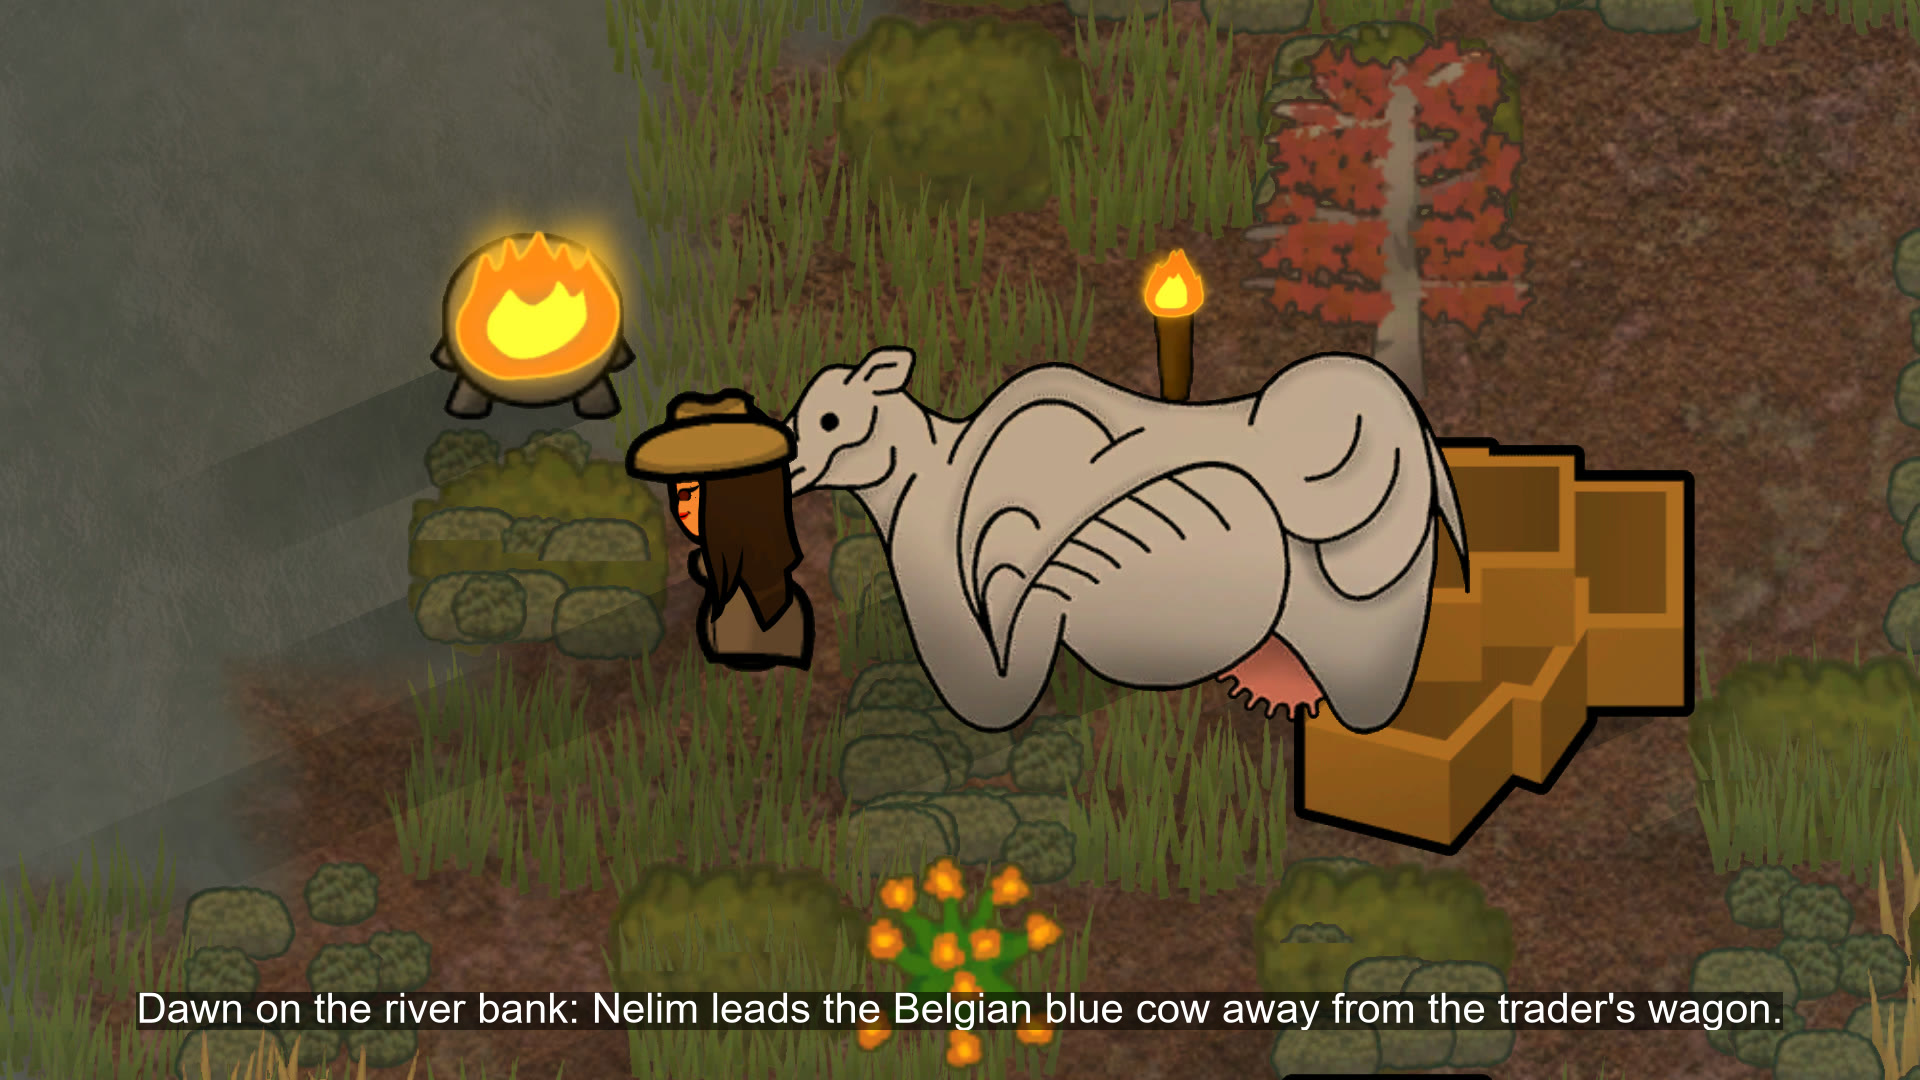
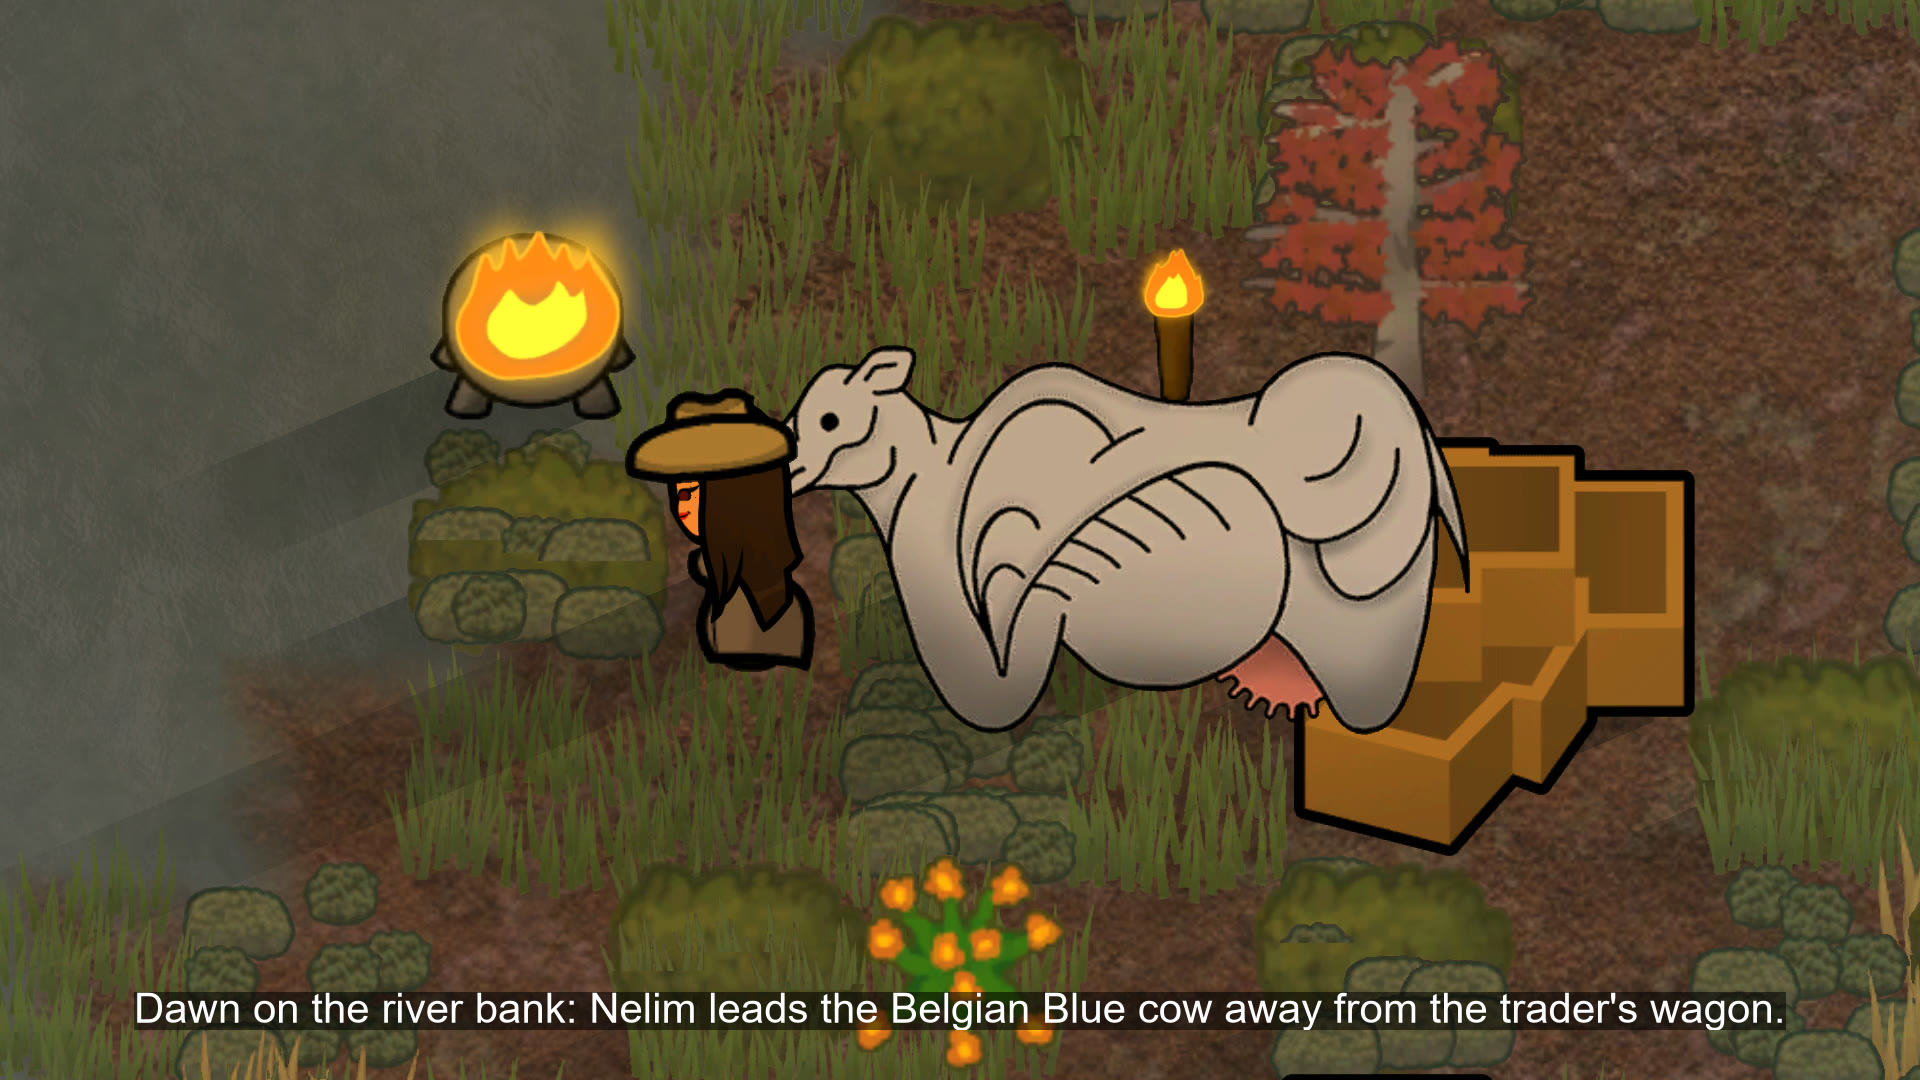
Review round 3: Belgian Blue capitalised in PUBLICATION.md, README.md, About.xml, subtitles 1 and 3 re-burned, review regenerated

Changed region(s): [[0.0625, 0.9167, 0.9375, 0.9472]]

diff --git a/PUBLICATION.md b/PUBLICATION.md
@@ -33,7 +33,7 @@ Stats below were read from `Mod/Defs/Race_BelgianBlueCows.xml` and `Mod/Defs/Rac
 ```markdown
 **UNOFFICIAL.** This mod is published without the original author's explicit consent. If the original author contacts me to request its removal, I undertake to take it down promptly.
 
-Two livestock animals, brought forward to the latest RimWorld version: the Belgian blue cow, all meat and no speed, and the pygmy beefalo, a much smaller muffalo crossbreed.
+Two livestock animals, brought forward to the latest RimWorld version: the Belgian Blue cow, all meat and no speed, and the pygmy beefalo, a much smaller muffalo crossbreed.
 
 No DLC, no dependency, no assembly. Two animals and a few guarded XML patches.
 
@@ -43,7 +43,7 @@ Original mod: [Beef Eaters](https://steamcommunity.com/sharedfiles/filedetails/?
 
 ## What's in it
 
-- The Belgian blue cow. The double-muscled breed, and the stats say so: body size 6.0, the largest thing in most colonies, and a move speed of 0.8, slower than a walking colonist. Wildness 5 %, as close to born-tame as the game allows. Milkable. It needs a pen.
+- The Belgian Blue cow. The double-muscled breed, and the stats say so: body size 6.0, the largest thing in most colonies, and a move speed of 0.8, slower than a walking colonist. Wildness 5 %, as close to born-tame as the game allows. Milkable. It needs a pen.
 - The pygmy beefalo. A muffalo scaled down to body size 1.0 instead of the muffalo's 2.4: fifteen years of life, move speed 4.2, wildness 50 %, trainable to Advanced where the muffalo is not trainable at all, milkable and shearable for muffalo wool. It needs no pen, and it carries a pack in a caravan like the muffalo it comes from.
 - An Animal Gear armour patch, carried over as the author wrote it. It applies only when that mod is present.
 
@@ -51,7 +51,7 @@ Original mod: [Beef Eaters](https://steamcommunity.com/sharedfiles/filedetails/?
 
 **The repair.** Wildness stopped being a field of the animal and became a stat. The old form is not an error, it is simply never read, and the stat defaults to -1, outside the range the game uses, so the cow written to be nearly born-tame and the beefalo at 50 % both behaved like any other animal. It is now a stat under `statBases` on both, written the way vanilla's own animals write it.
 
-**On purpose, and not a repair.** The pygmy beefalo's only trade tag was one no trader in the game reads, so nobody could buy or sell it. It now carries AnimalFarm as well, the tag of the vanilla cow, which the Belgian blue already had. That is design, not porting, and it is said here rather than buried.
+**On purpose, and not a repair.** The pygmy beefalo's only trade tag was one no trader in the game reads, so nobody could buy or sell it. It now carries AnimalFarm as well, the tag of the vanilla cow, which the Belgian Blue already had. That is design, not porting, and it is said here rather than buried.
 
 The original is declared incompatible: both mods define the same two animals under the same names, and the last one loaded would win in silence. Run one or the other.
 
@@ -71,7 +71,7 @@ Nocturnal Animals needed nothing: the cow and the muffalo it follows are both di
 
 TheGoofyOne declared no licence: no file in the mod, nothing in its About.xml, no linked repository, nothing on its Steam page. It is republished here under the usual convention for abandoned mods: full credit, a link to the original, and removal on request. If they would rather this port did not exist, say so and it comes down, no argument, no delay.
 
-Content mod: removing it mid-save destroys any Belgian blue cow or pygmy beefalo already in the colony.
+Content mod: removing it mid-save destroys any Belgian Blue cow or pygmy beefalo already in the colony.
 
 ## Languages
 
@@ -87,7 +87,7 @@ The port work (the XML, the patches, the tests, the documentation and the pictur
 
 ## Thanks
 
-- TheGoofyOne, for the Belgian blue cow and the pygmy beefalo.
+- TheGoofyOne, for the Belgian Blue cow and the pygmy beefalo.
 - SamBucher, for A Dog Said... Animal Prosthetics 2.
 - Mlie, who maintains Dogs mate (Continued), and Revoluss, its original author.
 - The authors of [Pickle](https://steamcommunity.com/sharedfiles/filedetails/?id=3791648678), used to test the port in game. It is for development only and never a dependency of this mod.
@@ -106,7 +106,7 @@ nothing" rests on the 2026-10-01 reading in `STATUS.md`.
 
 - **Preview** (`Mod/About/Preview.png`, 896 x 504, 591 KB): composed by `node ../scripts/Render-Preview.cjs`
   from `Art/Preview-source.png`, `Art/echo-preview.png` and `Art/Preview.config.json`. Known defect noted in
-  `STATUS.md`: it does not show the Belgian blue cow.
+  `STATUS.md`: it does not show the Belgian Blue cow.
 - **ModIcon** (`Mod/About/ModIcon.png`, 128 x 128): from the owner's `Art/ModIcon-source.png`, never edited
   by a session.
 
@@ -121,7 +121,7 @@ owner is asked (`GALLERY.md`).
 | Order | File | What it shows | Source |
 |---|---|---|---|
 | 0 | `0-preview.png` | Copy of `Mod/About/Preview.png`, byte for byte | Done |
-| 1 | `1-dawn-cow.jpg` | Dawn on the river bank, Nelim leads the Belgian blue cow in | Candidate 2026-11-17 (v29, ticket 89db), subtitled, validated by the owner 2026-11-17 |
+| 1 | `1-dawn-cow.jpg` | Dawn on the river bank, Nelim leads the Belgian Blue cow in | Candidate 2026-11-17 (v29, ticket 89db), subtitled, validated by the owner 2026-11-17 |
 | 2 | `2-milking-calf.jpg` | Late morning in the lily field, Nelim milks the cow, her calf looks on | Candidate 2026-11-17 (v28, ticket c94f), subtitled, validated by the owner 2026-11-17 |
 | 3 | `3-bull-trough.jpg` | Early afternoon, the bull, face-on, behind the trough | Candidate 2026-11-17 (v22, ticket 8182), subtitled, validated by the owner 2026-11-17 |
 | 4 | `4-beefalo-hay.jpg` | Mid-afternoon, the pygmy beefalo and her calf come down to the hay | Candidate 2026-11-17 (v29, ticket 89db), subtitled, validated by the owner 2026-11-17 |
@@ -135,9 +135,9 @@ One English line at the bottom of each scene without an interface window (`GALLE
 
 | Index | File | Line |
 |---|---|---|
-| 1 | `1-dawn-cow.jpg` | Dawn on the river bank: Nelim leads the Belgian blue cow away from the trader's wagon. |
+| 1 | `1-dawn-cow.jpg` | Dawn on the river bank: Nelim leads the Belgian Blue cow away from the trader's wagon. |
 | 2 | `2-milking-calf.jpg` | Late morning in the lily field: Nelim milks the cow while her calf looks on. |
-| 3 | `3-bull-trough.jpg` | Early afternoon: the Belgian blue bull comes to the trough beside Nelim. |
+| 3 | `3-bull-trough.jpg` | Early afternoon: the Belgian Blue bull comes to the trough beside Nelim. |
 | 4 | `4-beefalo-hay.jpg` | Mid-afternoon: the pygmy beefalo and her calf come in to the hay. |
 | 5 | `5-herd-evening.jpg` | Evening: the whole herd is home at the trough. |
 | 6 | `6-reskin-herd.jpg` | Early afternoon at the trough, with HannahBug's separate reskin. |
@@ -162,7 +162,7 @@ drawn from `TEST_SCENARIOS.md`; it is hers to change.
 
 | # | What to look at | Why a test cannot |
 |---|---|---|
-| 1 | Subscribe to the item once it exists, start a game with the installed copy, tame a Belgian blue cow: the information card reads Wildness 5 % | The installed copy is what players get; the suite plays the working tree |
+| 1 | Subscribe to the item once it exists, start a game with the installed copy, tame a Belgian Blue cow: the information card reads Wildness 5 % | The installed copy is what players get; the suite plays the working tree |
 | 2 | A real save with either animal, then the mod removed: the animal is destroyed | A changed mod list is the game's handling |
 | 3 | The gallery: which captures, in which order | A composition is a choice |
 | 4 | The description pasted on the page, read once more | The page is edited by hand after creation |
@@ -236,7 +236,7 @@ drafts below are starting points to rewrite, not text to paste.
 ### Dogs mate (Continued), 2441132298
 
 ```
-My Beef Eaters port adds a Belgian blue cow and a pygmy beefalo. The cow joins your cattle group, the beefalo the bison group (its description makes it a bull x muffalo cross). Optional patch, silent without your mod. Thanks! [url=https://steamcommunity.com/sharedfiles/filedetails/?id=3811290251]Beef Eaters Renew (unofficial)[/url]
+My Beef Eaters port adds a Belgian Blue cow and a pygmy beefalo. The cow joins your cattle group, the beefalo the bison group (its description makes it a bull x muffalo cross). Optional patch, silent without your mod. Thanks! [url=https://steamcommunity.com/sharedfiles/filedetails/?id=3811290251]Beef Eaters Renew (unofficial)[/url]
 ```
 
 ### Beef Eaters (original), 1988048034
@@ -248,7 +248,7 @@ Hi TheGoofyOne! I ported your two animals to the current game (unofficially, cre
 ### Animal Feed Trough (Continued), 2071757940
 
 ```
-The herd of my Beef Eaters port gathers at your trough in the gallery pictures, hay and all. A Belgian blue cow, a bull and a pygmy beefalo, all at one of your troughs, so thank you, and thanks for keeping BaconBits' idea alive. [url=https://steamcommunity.com/sharedfiles/filedetails/?id=3811290251]Beef Eaters Renew (unofficial)[/url]
+The herd of my Beef Eaters port gathers at your trough in the gallery pictures, hay and all. A Belgian Blue cow, a bull and a pygmy beefalo, all at one of your troughs, so thank you, and thanks for keeping BaconBits' idea alive. [url=https://steamcommunity.com/sharedfiles/filedetails/?id=3811290251]Beef Eaters Renew (unofficial)[/url]
 ```
 
 Check the last comments of each page first, and whether it takes comments, as `WORKSHOP_COMMENTS.md` asks.

diff --git a/README.md b/README.md
@@ -2,7 +2,7 @@
 
 UNOFFICIAL. This mod is published without the original author's explicit consent. If the original author contacts me to request its removal, I undertake to take it down promptly.
 
-The Belgian blue cow and the pygmy beefalo, brought forward to RimWorld 1.6.
+The Belgian Blue cow and the pygmy beefalo, brought forward to RimWorld 1.6.
 
 **I am not the author of this mod.** Both animals are TheGoofyOne's; all I did was the work needed
 to make them run on 1.6. Credit goes to them, mistakes in the update are mine.
@@ -14,7 +14,7 @@ Original mod: https://steamcommunity.com/sharedfiles/filedetails/?id=1988048034 
 
 Two livestock animals.
 
-- **Belgian blue cow** — the double-muscled breed, and the stats say so. Body size 6.0, the largest
+- **Belgian Blue cow** — the double-muscled breed, and the stats say so. Body size 6.0, the largest
   thing in most colonies, at a move speed of 0.8, slower than a walking colonist. Wildness 0.05,
   about as close to born-tame as the game allows. Milkable.
 - **Pygmy beefalo** — a muffalo scaled down to body size 1.0 rather than the muffalo's own 2.4.
@@ -28,7 +28,7 @@ No DLC required. No Harmony, no framework, no dependency of any kind.
 Languages: English and French. French covers animal names and descriptions, calves, attack
 labels, and the optional Animal Gear armour.
 
-Content mod: removing it mid-save will lose any Belgian blue cow or pygmy beefalo already in play.
+Content mod: removing it mid-save will lose any Belgian Blue cow or pygmy beefalo already in play.
 
 ## What changed in the 1.6 update
 
@@ -40,7 +40,7 @@ One line, twice, and two things found on the way.
   the point of the animal, was doing nothing at all.
 - **`AnimalFarm` added to the pygmy beefalo's trade tags.** Its only tag was `StandardAnimal`, which
   no trader in the game reads, so the animal could be neither bought nor sold by anybody. The
-  Belgian blue already carried `AnimalFarm`. This one is design rather than porting, and
+  Belgian Blue already carried `AnimalFarm`. This one is design rather than porting, and
   [ATTRIBUTION.md](ATTRIBUTION.md) says so in those words.
 - **The original is declared incompatible.** Both mods define the same two animals under the same
   names; with both enabled the last one loaded wins in silence.

diff --git a/TRANSLATION_REVIEW.md b/TRANSLATION_REVIEW.md
@@ -2,7 +2,7 @@
 
 Repository type: **renew**
 
-Generated by `scripts/Make-TranslationReview.ps1` from revision `b351785`. Do not edit by hand: regenerate. By default the Original column repeats the English column (no source language is recorded), unless stated below. The English column is the text the Def or Keyed file carries (or Languages/English when the mod ships it): it is not guaranteed to be English.
+Generated by `scripts/Make-TranslationReview.ps1` from revision `f1747ed+uncommitted changes`. Do not edit by hand: regenerate. By default the Original column repeats the English column (no source language is recorded), unless stated below. The English column is the text the Def or Keyed file carries (or Languages/English when the mod ships it): it is not guaranteed to be English.
 
 Languages: French (19 keys, 0 missing against English). English is the source side. Missing keys count the label and description of every Def with a defName and every English Keyed key that a language does not translate.
 
